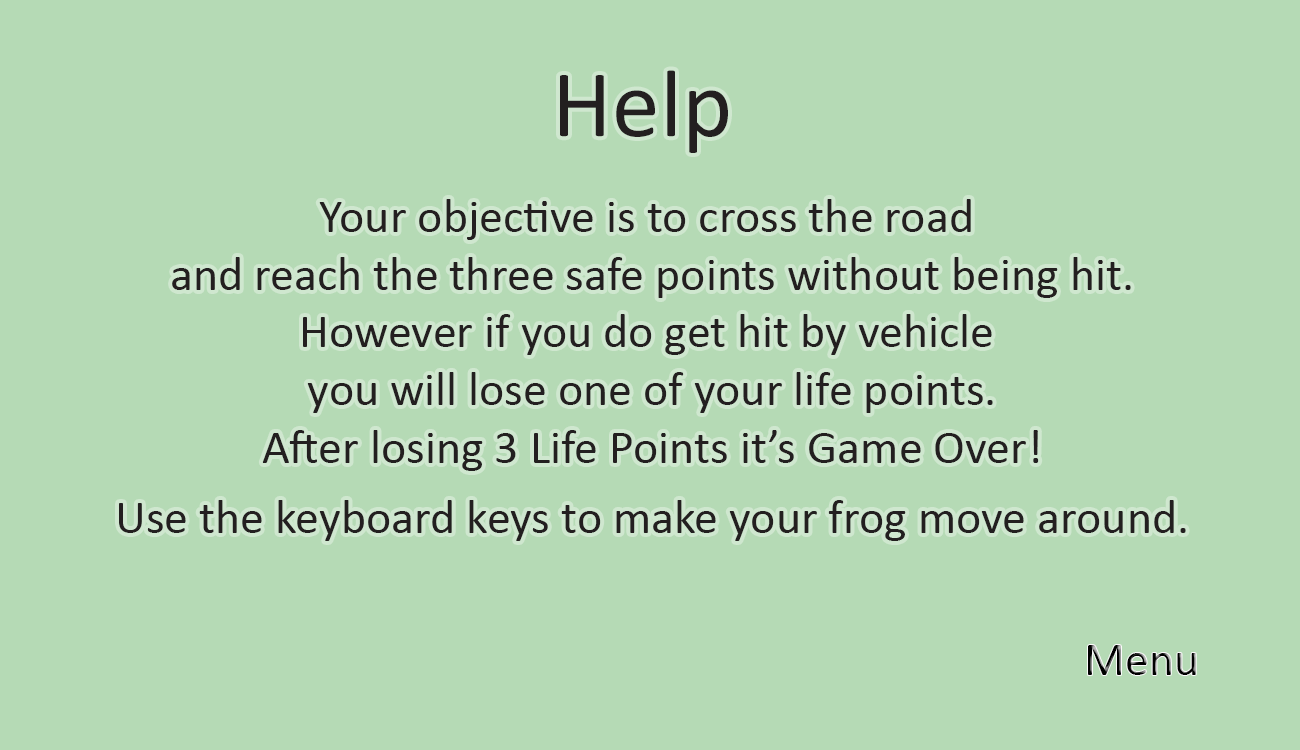
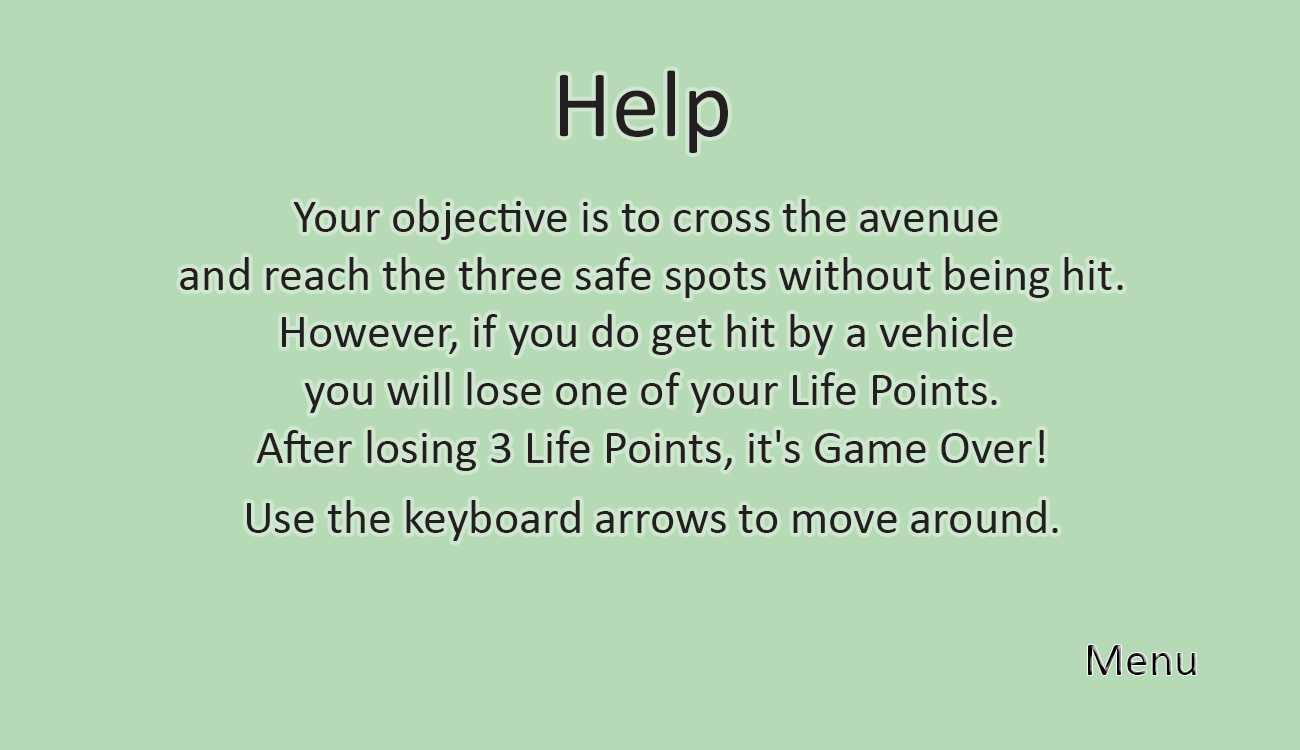
Help screen updated, game state set to intro(correct one), there's a bug when backspacing the nick to be save, will be corrected

Changed region(s): [[0.0615, 0.2453, 0.9231, 0.736]]

diff --git a/src/com/game/src/main/Game.java b/src/com/game/src/main/Game.java
@@ -46,7 +46,7 @@ public class Game extends Canvas implements Runnable{
 	private BufferedImage gameoverbackground = null;
 	private BufferedImage helpbackground = null;
 	
-	private static STATE state = STATE.WIN;
+	private static STATE state = STATE.INTRO;
 	
 	private Player frog;
 	private Controller gameController;
